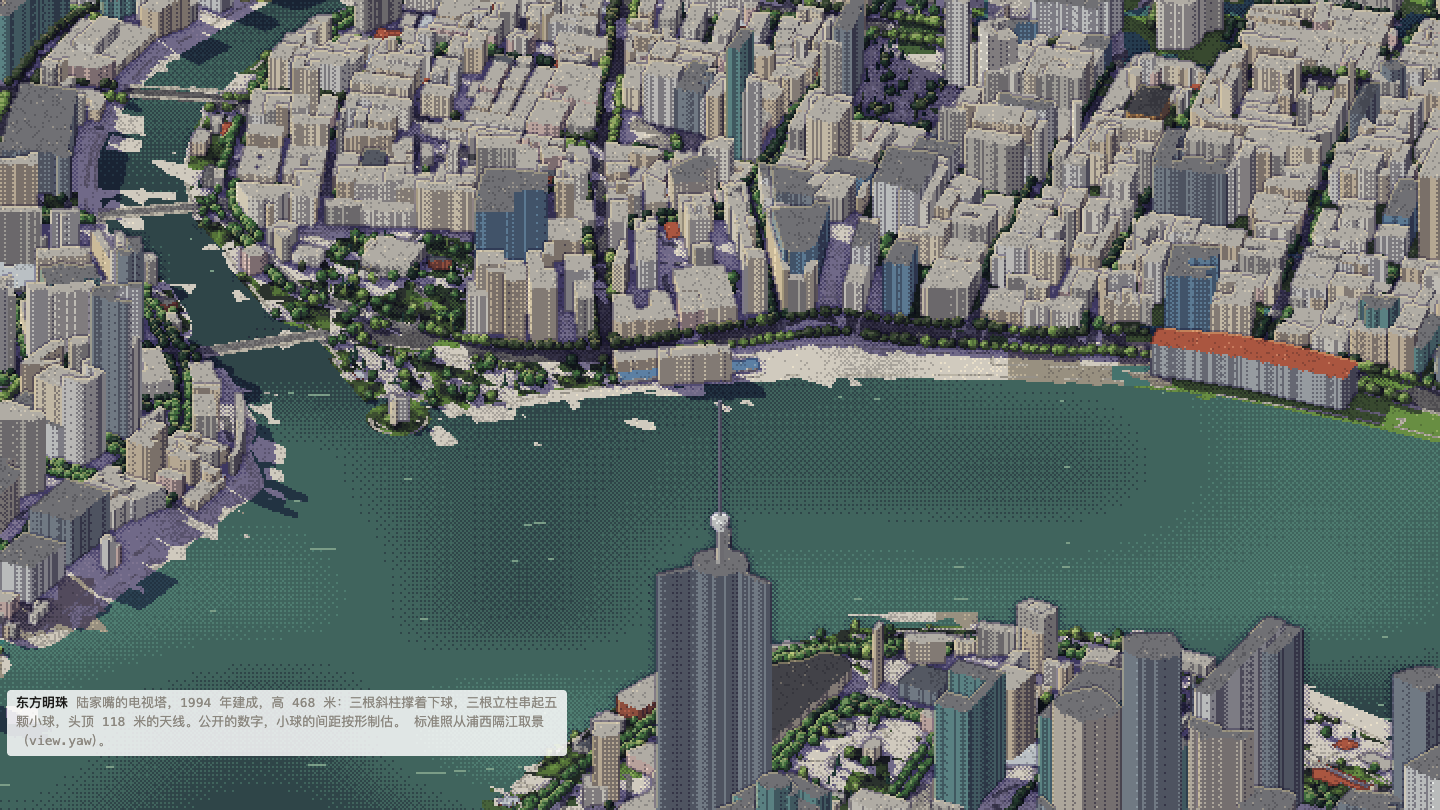
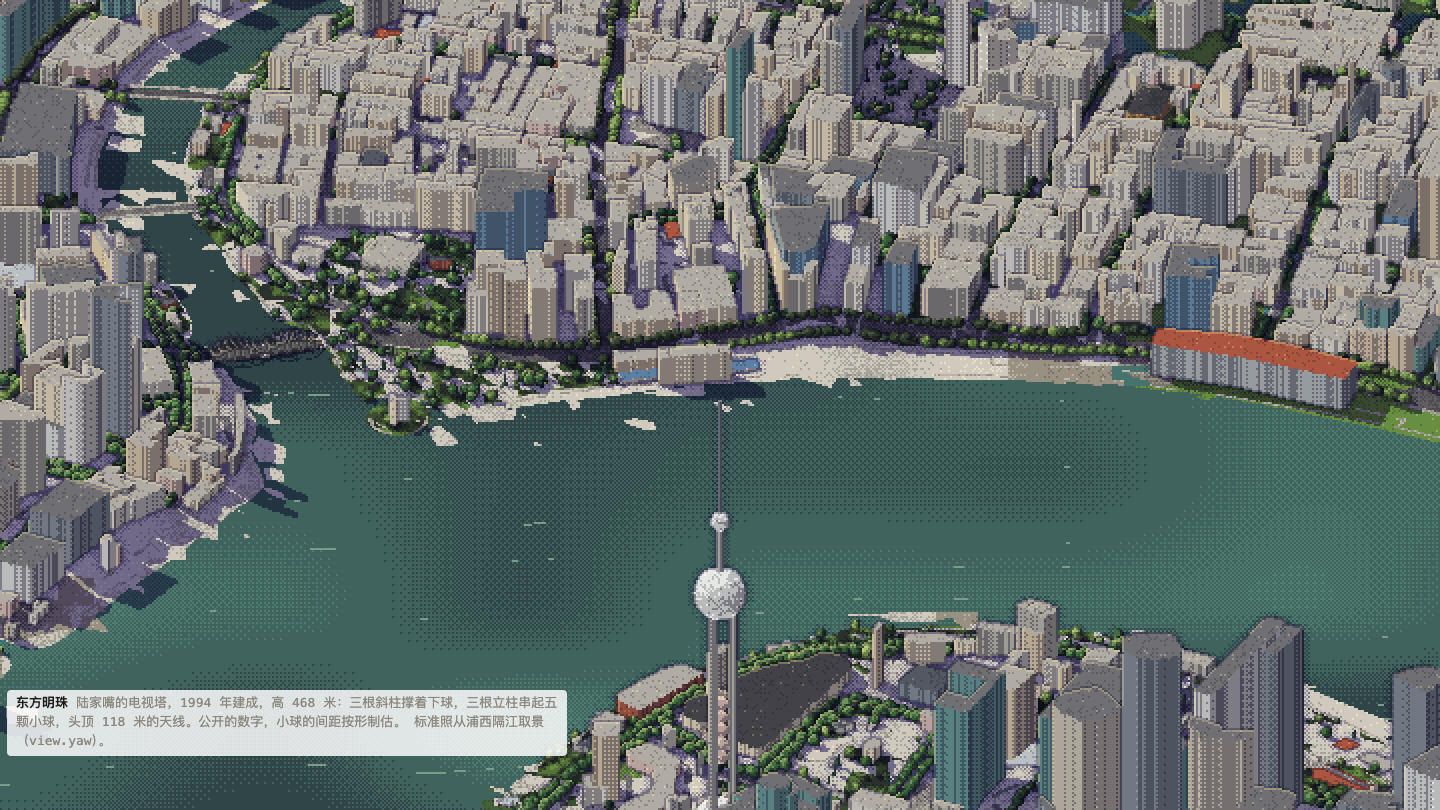
手工模型五座（D080）：外白渡桥、武康大楼、杨浦水厂城堡楼、中华艺术宫斗冠、上海展览中心金顶；东方明珠球体加密
- waibaidu：两跨弧形上弦的钢桁架（跨长 52.4+49.6 公开，拱高按照片估），石墩、栏杆、连系杆
- flatiron：船头圆弧的楔形公寓，砖砌底层+奶黄券廊（高 30 米八层公开，长和船头按地块估）
- castleHall：红砖厂房+四座锥顶角塔+中段凸出的城堡楼（按照片估，杨浦水厂厂区没有公开尺寸）
- pavilionCrown：大红斗冠八层出挑+四柱+砖色台座（高 63 米公开）
- spireHall：三段奶油色塔身+鎏金锥顶和星（塔尖 110 米公开）
- 东方明珠大球 24 片、小球 12 片、太空舱 16 片；调色板末尾追加 gild（鎏金），旧颜色的索引一个不变
- 地标 24→25：上海展览中心归沪西组，别名添中苏友好大厦
- 验收图六张进 docs/REVIEW/sh-first-look/（东方明珠标准照、外白渡桥、武康大楼、展览中心金顶、杨浦水厂、中华艺术宫斗冠）
- 教训记进 D080：让位标记烘在瓦片里，改 clear 必须 --from bake，只重烘 landmarks 是没用的
- 检查：单元测试 116 项、ruff、cities.cjs、DATA-REPORT 重出

Changed region(s): [[0.4375, 0.6481, 0.5625, 1.0], [0.125, 0.4012, 0.25, 0.463]]

diff --git a/app/src/landmarks/models.js b/app/src/landmarks/models.js
@@ -185,16 +185,135 @@ export function pearlTower(c, { height = 468, lower = 50, upper = 45, capsule = 
     const a = 2 * Math.PI * i / 3, ux = Math.cos(a), uy = Math.sin(a);
     leaningPrism(k, concrete, [ux * 44, uy * 44, 0], [ux * 9, uy * 9, 62], 3.2);       // the slanted legs
   }
-  ball(k, glass, 0, 0, 49, lower / 2, 8, 16);                                          // the lower sphere
+  ball(k, glass, 0, 0, 49, lower / 2, 8, 24);                                          // the lower sphere
   for (let i = 0; i < 3; i++) {
     const p = Kit.corner(0, 0, 11, 1, 0, 2 * Math.PI * i / 3 + Math.PI / 6);
     k.prism(concrete, p[0], p[1], 55, 263, 4, 8);                                      // the three columns
   }
-  for (let i = 0; i < smalls; i++) ball(k, rose, 0, 0, 118 + i * 13, 6, 4, 10);        // the small balls
-  ball(k, glass, 0, 0, 279, upper / 2, 8, 16);                                         // the upper sphere
+  for (let i = 0; i < smalls; i++) ball(k, rose, 0, 0, 118 + i * 13, 6, 5, 12);        // the small balls
+  ball(k, glass, 0, 0, 279, upper / 2, 8, 24);                                         // the upper sphere
   k.prism(concrete, 0, 0, 295, 342, 3.2, 8);                                           // the mast below the capsule
-  ball(k, white, 0, 0, 350, capsule / 2, 5, 12);                                       // the capsule
+  ball(k, white, 0, 0, 350, capsule / 2, 6, 16);                                       // the capsule
   k.prism(metal, 0, 0, 358, height, 2.2, 6);                                           // the antenna
   k.cap(metal, 0, 0, height, 2.2, 6);
+  return k;
+}
+
+// The Waibaidu Bridge: a steel deck on stone piers, and over each of its two spans a through truss whose
+// top chord arcs like a bow. length runs along the map's x axis (the bake turns it the way the bridge is
+// mapped); the spans, the deck's height and the arcs' rise are the bridge's own as far as the record
+// gives, the posts' rhythm by manner.
+export function waibaidu(c, { length = 104, width = 18.5, deck = 6, rise = 9.5, spans = [52.4, 49.6] }) {
+  const k = new Kit();
+  const steel = k.part(c.steel, c.steel), walk = k.part(c.deck, c.steel), stone = k.part(c.stone, c.stone);
+  const half = width / 2 - 0.9;
+  k.box(walk, 0, 0, deck - 0.5, length, width, 0.5);                                   // the way across
+  for (const side of [-1, 1]) k.box(steel, 0, side * (half - 0.3), deck, length, 0.3, 1.1);   // the railings
+  let x = -length / 2;
+  const piers = [x];
+  for (const span of spans) {
+    const x0 = x, x1 = x + span; x = x1;
+    piers.push(x1);
+    const posts = Math.max(6, Math.round(span / 6.5));
+    for (const side of [-1, 1]) {
+      const y = side * half;
+      let prev = null;
+      for (let i = 0; i <= posts; i++) {
+        const t = i / posts, px = x0 + span * t, top = deck + 1.1 + rise * Math.sin(Math.PI * t);
+        if (i > 0) leaningPrism(k, steel, [prev.px, y, prev.top], [px, y, top], 0.45); // the arched top chord
+        k.box(steel, px, y, deck + 0.4, 0.45, 0.45, top - deck - 0.4);                 // the post, deck to chord
+        prev = { px, top };
+      }
+    }
+    for (let i = 1; i < posts; i++) {                                                  // struts tying the two trusses
+      const t = i / posts, px = x0 + span * t, top = deck + 1.1 + rise * Math.sin(Math.PI * t);
+      k.box(steel, px, 0, top, 0.45, half * 2 - 0.6, 0.45);
+    }
+  }
+  for (const px of piers) k.box(stone, px, 0, -2, 6.5, width + 1.5, deck + 2);         // the piers
+  return k;
+}
+
+// A flatiron: a slab that tapers to a rounded prow where the streets meet at an angle — the Huaihai Road
+// corner of the Normandie Apartments. A brick ground floor, cream galleries above, the prow round with a
+// railed balcony all the way round. length and prow follow the block; height and floors are the
+// building's own.
+export function flatiron(c, { length = 83, width = 19, prow = 14, height = 30, ground = 6, floors = 8 }) {
+  const k = new Kit();
+  const brick = k.part(c.brick, c.brick, 2), cream = k.part(c.cream, c.cream, 2), rail = k.part(c.concrete, c.cream);
+  const l = length / 2 - prow, hw = width / 2;
+  const pts = [[-l + 2, -hw], [-l, -hw], [-l, hw], [-l + 2, hw]];
+  for (let i = 1; i <= 8; i++) {                                                       // the rounded prow
+    const a = Math.PI / 2 - Math.PI * i / 8;
+    const w = hw * (0.62 + 0.38 * Math.sin(Math.abs(a)) / 1) * (0.72 + 0.28 * Math.sin(Math.abs(a)));
+    pts.push([l - prow + prow * Math.cos(a), hw * (0.62 + 0.38 * Math.sin(a))]);
+  }
+  pts.push([l - prow, -hw * 0.62]);
+  const floor = (z0, z1, part) => {
+    for (let i = 0; i < pts.length; i++) {
+      const a = pts[i], b = pts[(i + 1) % pts.length];
+      const mx = (a[0] + b[0]) / 2, my = (a[1] + b[1]) / 2, ml = Math.hypot(mx, my) || 1;
+      k.quad(part, [[a[0], a[1], z0], [b[0], b[1], z0], [b[0], b[1], z1], [a[0], a[1], z1]], mx / ml, my / ml);
+    }
+    k.tri(part, [0, 0, z1], ...pts.map(p => [p[0], p[1], z1]), 0, 0);
+  };
+  floor(0, ground, brick);                                                             // the brick ground floor
+  floor(ground, height, cream);                                                        // the galleries above
+  const mid = height * 0.62;
+  for (let i = 0; i < pts.length; i++) {                                               // the prow's balcony rail
+    const a = pts[i], b = pts[(i + 1) % pts.length];
+    const mx = (a[0] + b[0]) / 2, my = (a[1] + b[1]) / 2, ml = Math.hypot(mx, my) || 1;
+    k.quad(rail, [[a[0], a[1], mid], [b[0], b[1], mid], [b[0], b[1], mid + 1.1], [a[0], a[1], mid + 1.1]], mx / ml, my / ml);
+  }
+  return k;
+}
+
+// A castle hall for the Yangshupu Waterworks: a long red-brick range with a jutting mid risalit and four
+// round turret towers with conical caps, after the manner of the 1880s buildings there. The real range's
+// measures are not published; these follow the photographs.
+export function castleHall(c, { length = 88, depth = 15, height = 17, turret = 7, turretHeight = 26 }) {
+  const k = new Kit();
+  const brick = k.part(c.brick, c.brick, 2), tile = k.part(c.tile, c.tile), cream = k.part(c.cream, c.cream, 2), metal = k.part(c.metal, c.metal);
+  k.box(brick, 0, 0, 0, length, depth, height);                                        // the main range
+  k.box(brick, 0, depth * 0.35, 0, length * 0.32, depth * 0.62, height + 3.5);         // the mid risalit
+  k.box(cream, 0, depth * 0.35, height + 3.5, length * 0.3, depth * 0.55, 2.2);        // its cornice
+  const at = [[-length / 2 + turret * 0.8, -depth / 2 + turret * 0.8], [length / 2 - turret * 0.8, -depth / 2 + turret * 0.8],
+              [-length / 2 + turret * 0.8, depth / 2 - turret * 0.8], [length / 2 - turret * 0.8, depth / 2 - turret * 0.8]];
+  for (const [tx, ty] of at) {
+    k.prism(brick, tx, ty, 0, turretHeight, turret / 2, 8);
+    k.ring(tile, tx, ty, 0, turretHeight + 6, turret / 2 + 1, turretHeight, 8);        // the conical cap
+    k.prism(metal, tx, ty, turretHeight + 6, turretHeight + 7.5, 0.35, 6);             // the flag mast
+  }
+  return k;
+}
+
+// The Crown of the China Art Museum: four great columns and a stack of red plates flaring out as they
+// rise — the dougong crown of the 2010 China Pavilion — over a low platform. The 63 m height and the
+// flaring are the building's own; the plates' count and their thin gaps are by manner.
+export function pavilionCrown(c, { height = 63, podium = 14, base = 96, top = 150, plates = 8, column = 16 }) {
+  const k = new Kit();
+  const red = k.part(c.red, c.red), deep = k.part(c.brick, c.brick, 2), grey = k.part(c.concrete, c.concrete);
+  k.box(deep, 0, 0, 0, top + 26, top - 10, podium);                                    // the platform (the data has it too; the crown clears it)
+  const z1 = height - 2.4, step = (z1 - podium) / plates;
+  for (const sx of [-1, 1]) for (const sy of [-1, 1]) k.box(grey, sx * base * 0.34, sy * base * 0.34, podium - 4, column, column, podium + 6);
+  for (let i = 0; i < plates; i++) {
+    const w = base + (top - base) * (i / (plates - 1));
+    k.box(red, 0, 0, podium + i * step, w, w, step * 0.72);
+  }
+  k.box(red, 0, 0, z1, top, top, 2.4);                                                 // the cap
+  return k;
+}
+
+// The Exhibition Centre's tower: a cream shaft in three tiers drawing in as it rises, a gilded cone and
+// the star on top. The 110 m to the star's tip is the record's own; the tiers' heights follow the
+// photographs.
+export function spireHall(c, { height = 110, tiers = [[42, 30], [72, 24], [92, 18]] }) {
+  const k = new Kit();
+  const cream = k.part(c.cream, c.cream, 2), gold = k.part(c.gold, c.gold);
+  let z = 0;
+  for (const [w, h] of tiers) { k.prism(cream, 0, 0, z, z + h, w / 2, 4); z += h; }
+  k.ring(gold, 0, 0, 0, height, tiers[tiers.length - 1][1] / 2 + 1.5, z, 4);           // the gilded cone
+  k.box(gold, 0, 0, height + 1.5, 2.4, 0.35, 2.4);                                     // the star, two crossed fins
+  k.box(gold, 0, 0, height + 1.5, 0.35, 2.4, 2.4);
   return k;
 }

diff --git a/app/src/landmarks/index.js b/app/src/landmarks/index.js
@@ -8,7 +8,8 @@ import * as models from './models.js';
 // no gap shows where the slope falls away; a bridge's deck must meet the road at its ends, so not at all
 const BED = { archBridge: 0, trussBridge: 0 };
 const ROLES = { stone: 'stone_pale', tile: 'tile_dark', wall: 'whitewash_aged', wood: 'wood_dark', metal: 'metal_pale', red: 'temple_red', path: 'paving',
-  steel: 'metal_dark', deck: 'rail', concrete: 'concrete_pale', white: 'panel_white', grass: 'pitch', glass: 'glass_blue', rose: 'plaster_rose' };
+  steel: 'metal_dark', deck: 'rail', concrete: 'concrete_pale', white: 'panel_white', grass: 'pitch', glass: 'glass_blue', rose: 'plaster_rose',
+  brick: 'brick_red', cream: 'plaster_cream', gold: 'gild' };
 
 // -> the list, each landmark with `parts`: what is built by hand for it, itself and its dependents, as
 //    [{ title, x, y, reach, top, mesh, props }], x and y in world metres

diff --git a/pipeline/pixelcity/report.py b/pipeline/pixelcity/report.py
@@ -252,7 +252,7 @@ def build(city, log=print):
     landmarks = json.loads((city.work / "landmarks.json").read_text(encoding="utf-8"))["landmarks"]
     def built(row):
         models = sorted({(item.get("kit") or {}).get("model") for item in [row, *row.get("parts", [])] if item.get("kit")} - {None})
-        names = {"pagoda": "塔", "pavilionTower": "楼阁", "archBridge": "石拱桥", "trussBridge": "桁架桥", "lotus": "体育场"}
+        names = {"pagoda": "塔", "pavilionTower": "楼阁", "archBridge": "石拱桥", "trussBridge": "桁架桥", "lotus": "体育场", "pearlTower": "东方明珠塔", "waibaidu": "钢桁拱桥", "flatiron": "船形大楼", "castleHall": "城堡楼", "pavilionCrown": "斗冠", "spireHall": "金顶展览塔"}
         return "、".join(names.get(m, m) for m in models) or "—"
     add(table(["编号", "名称", "组", "对应 OSM 里的要素", "手工模型"], [[r["id"], r["title"], r["group"], r["source"].replace("OpenStreetMap: ", ""), built(r)] for r in landmarks]))
     add("")

diff --git a/cities/sh/DATA-REPORT.md b/cities/sh/DATA-REPORT.md
@@ -17,7 +17,7 @@
 | 其中数据集重复给的轮廓，只留一条 | 8,438 |
 | 范围外、任何瓦片都放不下的边距楼，不入图 | 1 |
 | 入图的建筑记录 | 915,260 |
-| 其中给手工搭的地标让位、不画的 | 1 |
+| 其中给手工搭的地标让位、不画的 | 28 |
 
 ### 轮廓从哪来
 
@@ -186,7 +186,7 @@
 | 水域 | 910 |
 
 - 不同的名字 31,369 个；其中 749 个被相隔 1 公里以上的几样东西共用（两个镇各有一条“人民路”），候选里用最近的村、社区或街道区分。
-- 别名 14 条（`cities/<id>/aliases.json`），烘焙时逐条核对，指不到东西就停下。
+- 别名 15 条（`cities/<id>/aliases.json`），烘焙时逐条核对，指不到东西就停下。
 - 水面 31 处：一条有名字的水道整个躺在一块没有名字的水面里时，这块水面认这条水道的名字，高亮画它的岸。
 - 文件 6.1 MB，线路共 299,753 个点；页面打开三秒后取一次，搜索框先用上时就立刻取，不挡第一次出图。
 
@@ -230,27 +230,28 @@
 |---|---|---|---|---|
 | 1-01 | 外滩 | 外滩 | places “外滩” | — |
 | 1-02 | 南京东路步行街 | 外滩 | roads “南京东路” | — |
-| 1-03 | 外白渡桥 | 外滩 | roads “外白渡桥” | — |
+| 1-03 | 外白渡桥 | 外滩 | roads “外白渡桥” | 钢桁拱桥 |
 | 1-04 | 豫园 | 外滩 | places “豫园” | — |
-| 1-05 | 东方明珠 | 外滩 | buildings “东方明珠电视塔” | — |
+| 1-05 | 东方明珠 | 外滩 | buildings “东方明珠电视塔” | 东方明珠塔 |
 | 1-06 | 上海中心大厦 | 外滩 | buildings “上海中心大厦” | — |
 | 1-07 | 金茂大厦 | 外滩 | buildings “金茂大厦” | — |
 | 1-08 | 上海环球金融中心 | 外滩 | buildings “上海环球金融中心” | — |
 | 2-01 | 静安寺 | 沪西 | places “静安寺” | — |
-| 2-02 | 玉佛禅寺 | 沪西 | places “玉佛禅寺” | — |
-| 2-03 | 四行仓库 | 沪西 | buildings “四行仓库” | — |
-| 2-04 | 田子坊 | 沪西 | places “田子坊” | — |
-| 2-05 | 新天地 | 沪西 | places “新天地” | — |
-| 2-06 | 武康大楼 | 沪西 | buildings “武康大楼” | — |
-| 2-07 | 徐家汇天主堂 | 沪西 | buildings “徐家汇圣依纳爵主教座堂” | — |
-| 2-08 | 龙华塔 | 沪西 | buildings “龙华塔” | 塔 |
+| 2-02 | 上海展览中心 | 沪西 | buildings “上海展览中心” | 金顶展览塔 |
+| 2-03 | 玉佛禅寺 | 沪西 | places “玉佛禅寺” | — |
+| 2-04 | 四行仓库 | 沪西 | buildings “四行仓库” | — |
+| 2-05 | 田子坊 | 沪西 | places “田子坊” | — |
+| 2-06 | 新天地 | 沪西 | places “新天地” | — |
+| 2-07 | 武康大楼 | 沪西 | buildings “武康大楼” | 船形大楼 |
+| 2-08 | 徐家汇天主堂 | 沪西 | buildings “徐家汇圣依纳爵主教座堂” | — |
+| 2-09 | 龙华塔 | 沪西 | buildings “龙华塔” | 塔 |
 | 3-01 | 多伦路文化名人街 | 苏河北岸 | roads “多伦路” | — |
 | 3-02 | 鲁迅公园 | 苏河北岸 | land “鲁迅公园” | — |
 | 3-03 | 上海邮政总局 | 苏河北岸 | buildings “上海邮政总局大楼” | — |
-| 3-04 | 杨树浦水厂 | 苏河北岸 | land “杨树浦水厂” | — |
+| 3-04 | 杨树浦水厂 | 苏河北岸 | land “杨树浦水厂” | 城堡楼 |
 | 4-01 | 世纪公园 | 浦东 | land “世纪公园” | — |
-| 4-02 | 中华艺术宫 | 浦东 | buildings “中华艺术宫” | — |
-| 2-09 | 上海体育场 | 沪西 | land “上海体育场” | — |
+| 4-02 | 中华艺术宫 | 浦东 | buildings “中华艺术宫” | 斗冠 |
+| 2-10 | 上海体育场 | 沪西 | land “上海体育场” | — |
 | 4-03 | 上海迪士尼乐园 | 浦东 | land “上海迪士尼乐园” | — |
 
 地标的坐标全部从 OpenStreetMap 按名字查出来（`pixelcity/landmarks.py`，地标表在 `cities/<id>/landmarks.json`），没有一个凭记忆写。模型尺寸：塔高、层数取公开数字，其余（檐口出挑、塔身收分、各层高度）按形制估。
@@ -262,7 +263,7 @@
 - 楼高：33,830 栋（3.7%）是推断的，其中 5,281 栋是村里的房子被压到 3 层以内，382 栋是寺庙的殿堂，89 栋是 OSM 记了屋顶形状的房子。
 - 寺庙殿堂的高度（大雄宝殿 14 米，其余 9 米，楼、阁两层 18 米）和屋顶是按形制定的，不是测绘的。
 - 屋顶类型：由原型决定，不是测绘的；坡屋顶只给轮廓像矩形的楼画。
-- 屋顶上的小件（楼梯间、水箱、太阳能、空调、设备间、通风口）：1,818,287 个，按原型和随机数放，不代表任何一栋楼顶上真实有什么。
+- 屋顶上的小件（楼梯间、水箱、太阳能、空调、设备间、通风口）：1,818,433 个，按原型和随机数放，不代表任何一栋楼顶上真实有什么。
 - 树的位置：由卫星土地覆盖和 OSM 的林地、草地、街道、岸线推出，不是逐棵调查。
 - 车辆与行人的位置和数量：沿真实的路和水道按固定间隔和时刻摆放，是“一个繁忙午后”的想象。
 - 茶园、历史街区、现代 CBD 的范围：按知名地名画的圈，不是官方边界。

diff --git a/docs/PROGRESS.md b/docs/PROGRESS.md
@@ -20,10 +20,11 @@
 - [x] 工作区：`/Volumes/XW2TB/Development/xiaowenz-map-sh`（worktree，分支 `city-sh`，从 main 的 a22222f 起步后合入首页一节）。原始数据、烘焙数据都在这个工作区的 `data/` 下，与原来的工作区互不相干。
 - [x] D073 管线认多块瓦片：地形与土地覆盖可跨经纬度整度（上海地形两块；土地覆盖是三度一块的，N30E120 与杭州共用），楼高按 1.25 度瓦片列表（上海四块，`city.json` 的 `files` 表自动下载；figshare 现在对脚本应答文件，D064 记录的手工步骤不必了）。证据：杭州 11 步在改造后的代码上重跑，1562 个烘焙文件与 main 逐字节相同。单元测试 116 项全过（`test_tiles.py` 新增 10 项）。中间抓到过一个自己写的错：土地覆盖在边距里瓦片外的格子一度按"没有"算，一格树的决定变了、随机数流错位、全城每块瓦片都不同——改回"取最近瓦片边缘的值"（与原单块行为一致）才回到逐字节相同。
 - [x] D074 上海的定义：`cities/sh/city.json`，bounds [121.22, 30.98, 121.84, 31.45]，UTM 51N，origin [330000, 3428000]，OSM 用 Geofabrik 上海提取包（25 MB），楼高四块 2432/2433/2434/2435（2434 与杭州共用），英文名 Shanghai（首页的 cities.json 用）。
-- [x] D075 上海的 look（老街区七圈、商务区六圈、寺庙四处、江水规则"黄浦/苏州河/吴淞"）与 24 处地标（四组：外滩、沪西、苏河北岸、浦东；手工模型只有龙华塔）、别名 14 条、黄浦江轮渡两段（D077：从江的中心线算的）。
+- [x] D075 上海的 look（老街区七圈、商务区六圈、寺庙四处、江水规则"黄浦/苏州河/吴淞"）与 25 处地标（四组：外滩、沪西、苏河北岸、浦东；手工模型七座：东方明珠、龙华塔、外白渡桥、武康大楼、杨树浦水厂城堡楼、中华艺术宫、上海展览中心，D078/D080）、别名 15 条、黄浦江轮渡两段（D077：从江的中心线算的）。
 - [x] 烘焙完成（2026-11-24）：3240 块瓦片、622 MB、915,260 栋建筑、181 万个屋顶小件、540 万棵树。中间抓到两件原有的、只有第二座城才撞得上的事（D076）：楼整栋存一块瓦里、角点 16 位（±1365 米）——上海两栋千米的厂房越窗，从邻瓦的角存；范围外三公里边距里的楼被钳进边缘瓦，挤过窗的一栋不入图。`scene.unholdable()` 让报告对得上数。
 - [x] 数据报告 `cities/sh/DATA-REPORT.md`（报告的说明文字这回改成了不说杭州的事，D068 说过的话兑现）。
 - [x] 第一轮验收图 25 张（`node tools/tests/city-views.cjs sh out/city-views/sh`，这个工具是新加的，给任何城拍"第一眼"）看过：外滩的全景、豫园的园子、龙华寺的殿堂院落都对；取景参数初调过一轮（外滩 1.1→0.45，陆家嘴的楼 0.9–1.2→0.5）。
+- [x] 手工模型七座（D078、D080）：东方明珠（你点名的）、龙华塔、外白渡桥、武康大楼、杨树浦水厂城堡楼、中华艺术宫、上海展览中心；地标有了自己的标准照（`view.yaw`，D079）。验收图 26 张，五张新的进了 `docs/REVIEW/sh-first-look/`。
 - [ ] **当前这一步：等你看过验收图和数据报告**。之后：浏览器测试里写死杭州字样的（`tour.cjs`、`smoke.cjs` 等）按城市参数化；上海发布（`npm run publish -- sh`，见 `deploy/README.md`）。
 - [ ] 杭州 `city.json` 加了 `files` 表（D073）：烘焙戳里的定义摘要变了，下次发布杭州会换一份清单，对象本身不变。
 

diff --git a/docs/DECISIONS.md b/docs/DECISIONS.md
@@ -253,3 +253,5 @@
 
 - **D078 2026-11-24 手工搭东方明珠**（你点名的：太重要了，数据的平直挤出不像）。模型 `pearlTower`（`models.js`），套件里新添两件实心件：`ball`（分片球，面片朝外的水平法线，像顶一样由着色器补竖直分量）和 `leaningPrism`（斜柱）。尺寸：塔高 468 米、下球直径 50 米（球心约 49 米）、上球直径 45 米（263–295 米）、太空舱 16 米（350 米）、天线 118 米——公开数字；三根斜柱的落点和五颗小球的间距按形制估。颜色：柱子混凝土灰白、两颗大球和小球用浅色板面（第一版用了玻璃蓝，在楼群里读不出来）。`clear` 60 米——塔自己的 OSM 轮廓（336 米高的一块）正好在正下方，让位后由模型替它。
 - **D079 2026-11-24 地标可以有自己的标准照（`view.yaw`）**。东方明珠的正脸只有在浦西隔江看：相机低角度放在楼群里时，三件套（比它高）正好挡在前面。`landmarks.json` 的 `view` 多了 `yaw`：飞达时相机站在那一侧、视线沿它转向地标；没写的地标照旧保持来访者原本的朝向（D062 的规矩不变），杭州全部地标都没写，行为与从前逐字节一致（54 张静帧不受影响）。东方明珠的取景定为 `scale 0.45, yaw 3π/4, offset [0, 400]`：相机在外滩一侧的江面上 800 多米处，隔江看塔，三件套在它身后。
+
+- **D080 2026-11-24 手工模型五座，东方明珠的球加密**（你说"说的这些都弄"）。外白渡桥（`waibaidu`：两跨弧形上弦的钢桁架，跨长 52.4 + 49.6 是公开的，拱高 9.5 和杆距按照片估）、武康大楼（`flatiron`：船头圆弧的楔形，砖砌底层、奶黄券廊，高 30 米八层公开，长和船头按地块估）、杨树浦水厂城堡楼（`castleHall`：红砖厂房、四座锥顶角塔，纯按照片估——厂区的尺寸没有公开数字）、中华艺术宫（`pavilionCrown`：大红斗冠八层出挑、四柱、砖色台座，高 63 米公开）、上海展览中心（`spireHall`：三段奶油色塔身、鎏金锥顶和星，塔尖 110 米公开）——地标 24 处变 25 处，展览中心归沪西组，别名添"中苏友好大厦"。东方明珠的大球和小球加密到 24/12 片。**鎏金**进了调色板（`gild`，加在末尾，全部旧颜色的索引不变）；给城堡楼和艺术宫配了 `brick`（砖红）和 `cream`（奶黄）两个角色。**清除圈的教训**：让位标记烘在瓦片里，`--only landmarks` 不重烘瓦片——改了 clear 只重烘地标步是没用的，艺术宫的外围翼楼直到 `--from bake` 才让开。

diff --git a/docs/REVIEW/sh-first-look/README.md b/docs/REVIEW/sh-first-look/README.md
@@ -1,9 +1,14 @@
 # 上海 · 第一眼
 
-上海烘焙完成后的第一批画面（2026-11-24，`node tools/tests/city-views.cjs sh` 的产物里挑的五张，1440×810，时间冻结、界面藏起）。全部 25 张在 `out/city-views/sh/`（不入库）。
+上海烘焙完成后的第一批画面（2026-11-24，`node tools/tests/city-views.cjs sh` 的产物里挑的五张，1440×810，时间冻结、界面藏起）。全部 26 张在 `out/city-views/sh/`（不入库）。
 
 - `overview.png` 全景：主城区整片浮在白底上，黄浦江穿过，东缘是沿海的一带。
 - `1-01.png` 外滩：取景初调后（0.45 像素/米），江湾和对岸的陆家嘴都在画里。
 - `1-04.png` 豫园：九曲桥、水池和老城厢的白墙黑瓦。
-- `1-05.png` 陆家嘴：玻璃幕墙的楼群。东方明珠本体是数据的平直挤出，没有球——看过再决定要不要手工搭（REVIEW-QUEUE 34）。
+- `1-05.png` 陆家嘴：玻璃幕墙的楼群，东方明珠的手工模型立在半岛尖上（D078：斜柱、下球、串珠、上球、太空舱、天线，24 片分片球）。
+- `1-03.png` 外白渡桥（D080）：两跨弧形钢桁架的手工模型跨在河口上。
+- `2-02.png` 上海展览中心（D080）：三段奶油色塔身和鎏金尖顶的手工模型，站在十字形的大厅上。
+- `2-07.png` 武康大楼（D080）：船头圆弧的手工模型，砖砌底层、上两层奶黄色的券廊。
+- `3-04.png` 杨树浦水厂（D080）：城堡楼的手工模型——红砖厂房、四座锥顶角塔——立在厂区临江一侧。
+- `4-02.png` 中华艺术宫（D080）：大红斗冠层层出挑的手工模型，立在砖色的地区馆台座上。
 - `2-08.png` 龙华塔与龙华寺：唯一的手工模型（塔），四周的殿堂是"寺庙用地"规矩画的（黄墙、深色大屋顶）。
